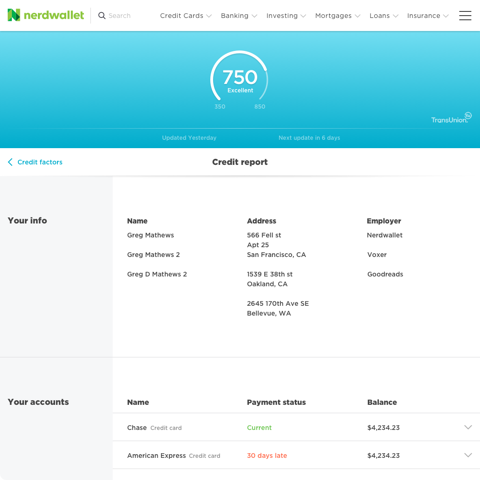
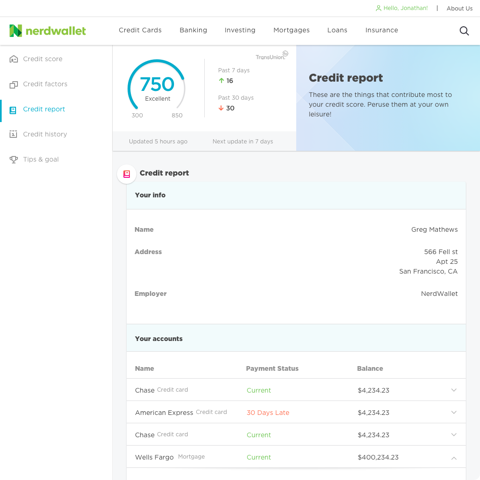
Finishing up the NW case study

diff --git a/nerdwallet.html b/nerdwallet.html
@@ -60,46 +60,67 @@
                 <p class="case-study-body">We flipped this around and selectively chose numbers that would most likely cause increases in people's scores and then ran the simulations for them and presented them with the results. This ended up giving people actionable insights and ways they could increase their score.</p>
             </div>
             <div class="column-text mbm">
-                    <h2 class="case-study-header">More designs</h2>
-                </div>
+                <h2 class="case-study-header">More designs</h2>
+            </div>
             <div class="four-wide">
-                    <div class="fourth-image-container">
-                        <a class="image-link" href="./images/nerdwallet/landing.png"><img class="fourth-image" src="./images/nerdwallet/landing-preview.png" /></a>
-                        <a class="image-link" href="./images/nerdwallet/landing.png"><p class="image-context">landing page</p></a>
-                    </div>
-                    <div class="fourth-image-container">
-                        <a class="image-link" href="./images/nerdwallet/creditReport.png"><img class="fourth-image" src="./images/nerdwallet/report-preview.png" /></a>
-                        <a class="image-link" href="./images/nerdwallet/creditReport.png"><p class="image-context">credit report</p></a>
-                    </div>
-                    <div class="fourth-image-container">
-                        <a class="image-link" href="./images/nerdwallet/dashboardv1.png"><img class="fourth-image" src="./images/nerdwallet/dashboardv1preview.png" /></a>
-                        <a class="image-link" href="./images/nerdwallet/dashboardv1.png"><p class="image-context">dashboard</p></a>
-                    </div>
+                <div class="fourth-image-container">
+                    <a class="image-link" href="./images/nerdwallet/landing.png"><img class="fourth-image" src="./images/nerdwallet/landing-preview.png" /></a>
+                    <a class="image-link" href="./images/nerdwallet/landing.png"><p class="image-context">landing page</p></a>
                 </div>
+                <div class="fourth-image-container">
+                    <a class="image-link" href="./images/nerdwallet/creditReport.png"><img class="fourth-image" src="./images/nerdwallet/report-preview.png" /></a>
+                    <a class="image-link" href="./images/nerdwallet/creditReport.png"><p class="image-context">credit report</p></a>
+                </div>
+                <div class="fourth-image-container">
+                    <a class="image-link" href="./images/nerdwallet/dashboardv1.png"><img class="fourth-image" src="./images/nerdwallet/dashboardv1preview.png" /></a>
+                    <a class="image-link" href="./images/nerdwallet/dashboardv1.png"><p class="image-context">dashboard</p></a>
+                </div>
+            </div>
         </div>
         <div class="case-study case-study-centered">
             <img class="header-image header-image-shadow" src="./images/nerdwallet/header2.png" />
             <div class="column-text mbl">
                 <h2 class="case-study-header">Expanding from credit score</h2>
-                <p class="case-study-body">As of this year, Facebook is confidently on its way to becoming the most widely used product in history. People spend more and more time on the platform, and in certain countries it is indistinguishable from “the Internet.” However, we have noticed people are reluctant to share their everyday moments on Facebook.</p>
+                <p class="case-study-body">Since the beginning we knew we wanted to build something that expanded beyond credit score. With our initial design we proved the worth of credit score and now were able to build the team bigger and encompass more parts of people's financial life. We then took a step back and took a longer term look at the product to figure out how we wanted to grow. With that we needed to rethink how our dashboard is structured and how the navigation would work in the future.</p>
             </div>
             <div class="content-left-image mbl">
                 <div class="left-image-md-container"><img class="left-image-md" src="./images/nerdwallet/expandableNav.png" /></div>
                 <div class="content">
                     <h2 class="case-study-header">Expandable Navigation</h2>
-                    <p class="case-study-body">As of this year, Facebook is confidently on its way to becoming the most widely used product in history. People spend more and more time on the platform, and in certain countries it is indistinguishable from “the Internet.” However, we have noticed people are reluctant to share their everyday moments on Facebook.</p>
+                    <p class="case-study-body">The main constraint of the previous design was our navigation. We wanted to create a navigation pattern that could expand way past credit score and include things like Transactions, Home Value, Auto, Wealth, and other categories. We ended up opting to use a sidebar navigation with the option to use expandable categories. This way we would be able to fit any navigaiton category when we needed it in the future.</p>
                 </div>
             </div>
             <div class="column-text mbm">
                 <h2 class="case-study-header">Updated dashboard</h2>
-                <p class="case-study-body">As of this year, Facebook is confidently on its way to becoming the most widely used product in history. People spend more and more time on the platform, and in certain countries it is indistinguishable from “the Internet.” However, we have noticed people are reluctant to share their everyday moments on Facebook.</p>
+                <p class="case-study-body">With our updated dashboard we wanted to focus on making something that would be modular, and could expand. We ended up introducing a homepage for the logged in experience which surfaces the most important information to focus on. The content is modular and can include various content types from relevant articles, to the latest spending update. </p>
             </div>
             <img class="mbl center-image-wide" src="./images/nerdwallet/dash.png" />
             <div class="column-text mbm">
                 <h2 class="case-study-header">Motion System</h2>
-                <p class="case-study-body">As of this year, Facebook is confidently on its way to becoming the most widely used product in history. People spend more and more time on the platform, and in certain countries it is indistinguishable from “the Internet.” However, we have noticed people are reluctant to share their everyday moments on Facebook.</p>
+                <p class="case-study-body">The last piece we added was a motion system when navigating. This helped the user make sense with how the page was changing. When the page initially loads, or you change categories completely the content loads in from right to left. When you change to a new category the content fades down and away, and when you navigate deeper into a category the content fades back and away and the new content comes in from the right.</p>
             </div>
             <img class="mbl center-image-wide" src="./images/nerdwallet/motion.gif" />
+            <div class="column-text mbm">
+                    <h2 class="case-study-header">More designs</h2>
+                </div>
+                <div class="four-wide">
+                    <div class="fourth-image-container">
+                        <a class="image-link" href="./images/nerdwallet/dashboardv2.png"><img class="fourth-image" src="./images/nerdwallet/dashboard-preview.png" /></a>
+                        <a class="image-link" href="./images/nerdwallet/dashboardv2.png"><p class="image-context">dashboard</p></a>
+                    </div>
+                    <div class="fourth-image-container">
+                        <a class="image-link" href="./images/nerdwallet/factor.png"><img class="fourth-image" src="./images/nerdwallet/factor-preview.png" /></a>
+                        <a class="image-link" href="./images/nerdwallet/factor.png"><p class="image-context">credit factor</p></a>
+                    </div>
+                    <div class="fourth-image-container">
+                        <a class="image-link" href="./images/nerdwallet/tipsfull.png"><img class="fourth-image" src="./images/nerdwallet/tips-preview.png" /></a>
+                        <a class="image-link" href="./images/nerdwallet/tipsfull.png"><p class="image-context">tips</p></a>
+                    </div>
+                    <div class="fourth-image-container">
+                        <a class="image-link" href="./images/nerdwallet/report.png"><img class="fourth-image" src="./images/nerdwallet/report-preview.png" /></a>
+                        <a class="image-link" href="./images/nerdwallet/report.png"><p class="image-context">credit report</p></a>
+                    </div>
+                </div>
         </div>
         <footer>
             <nav>
